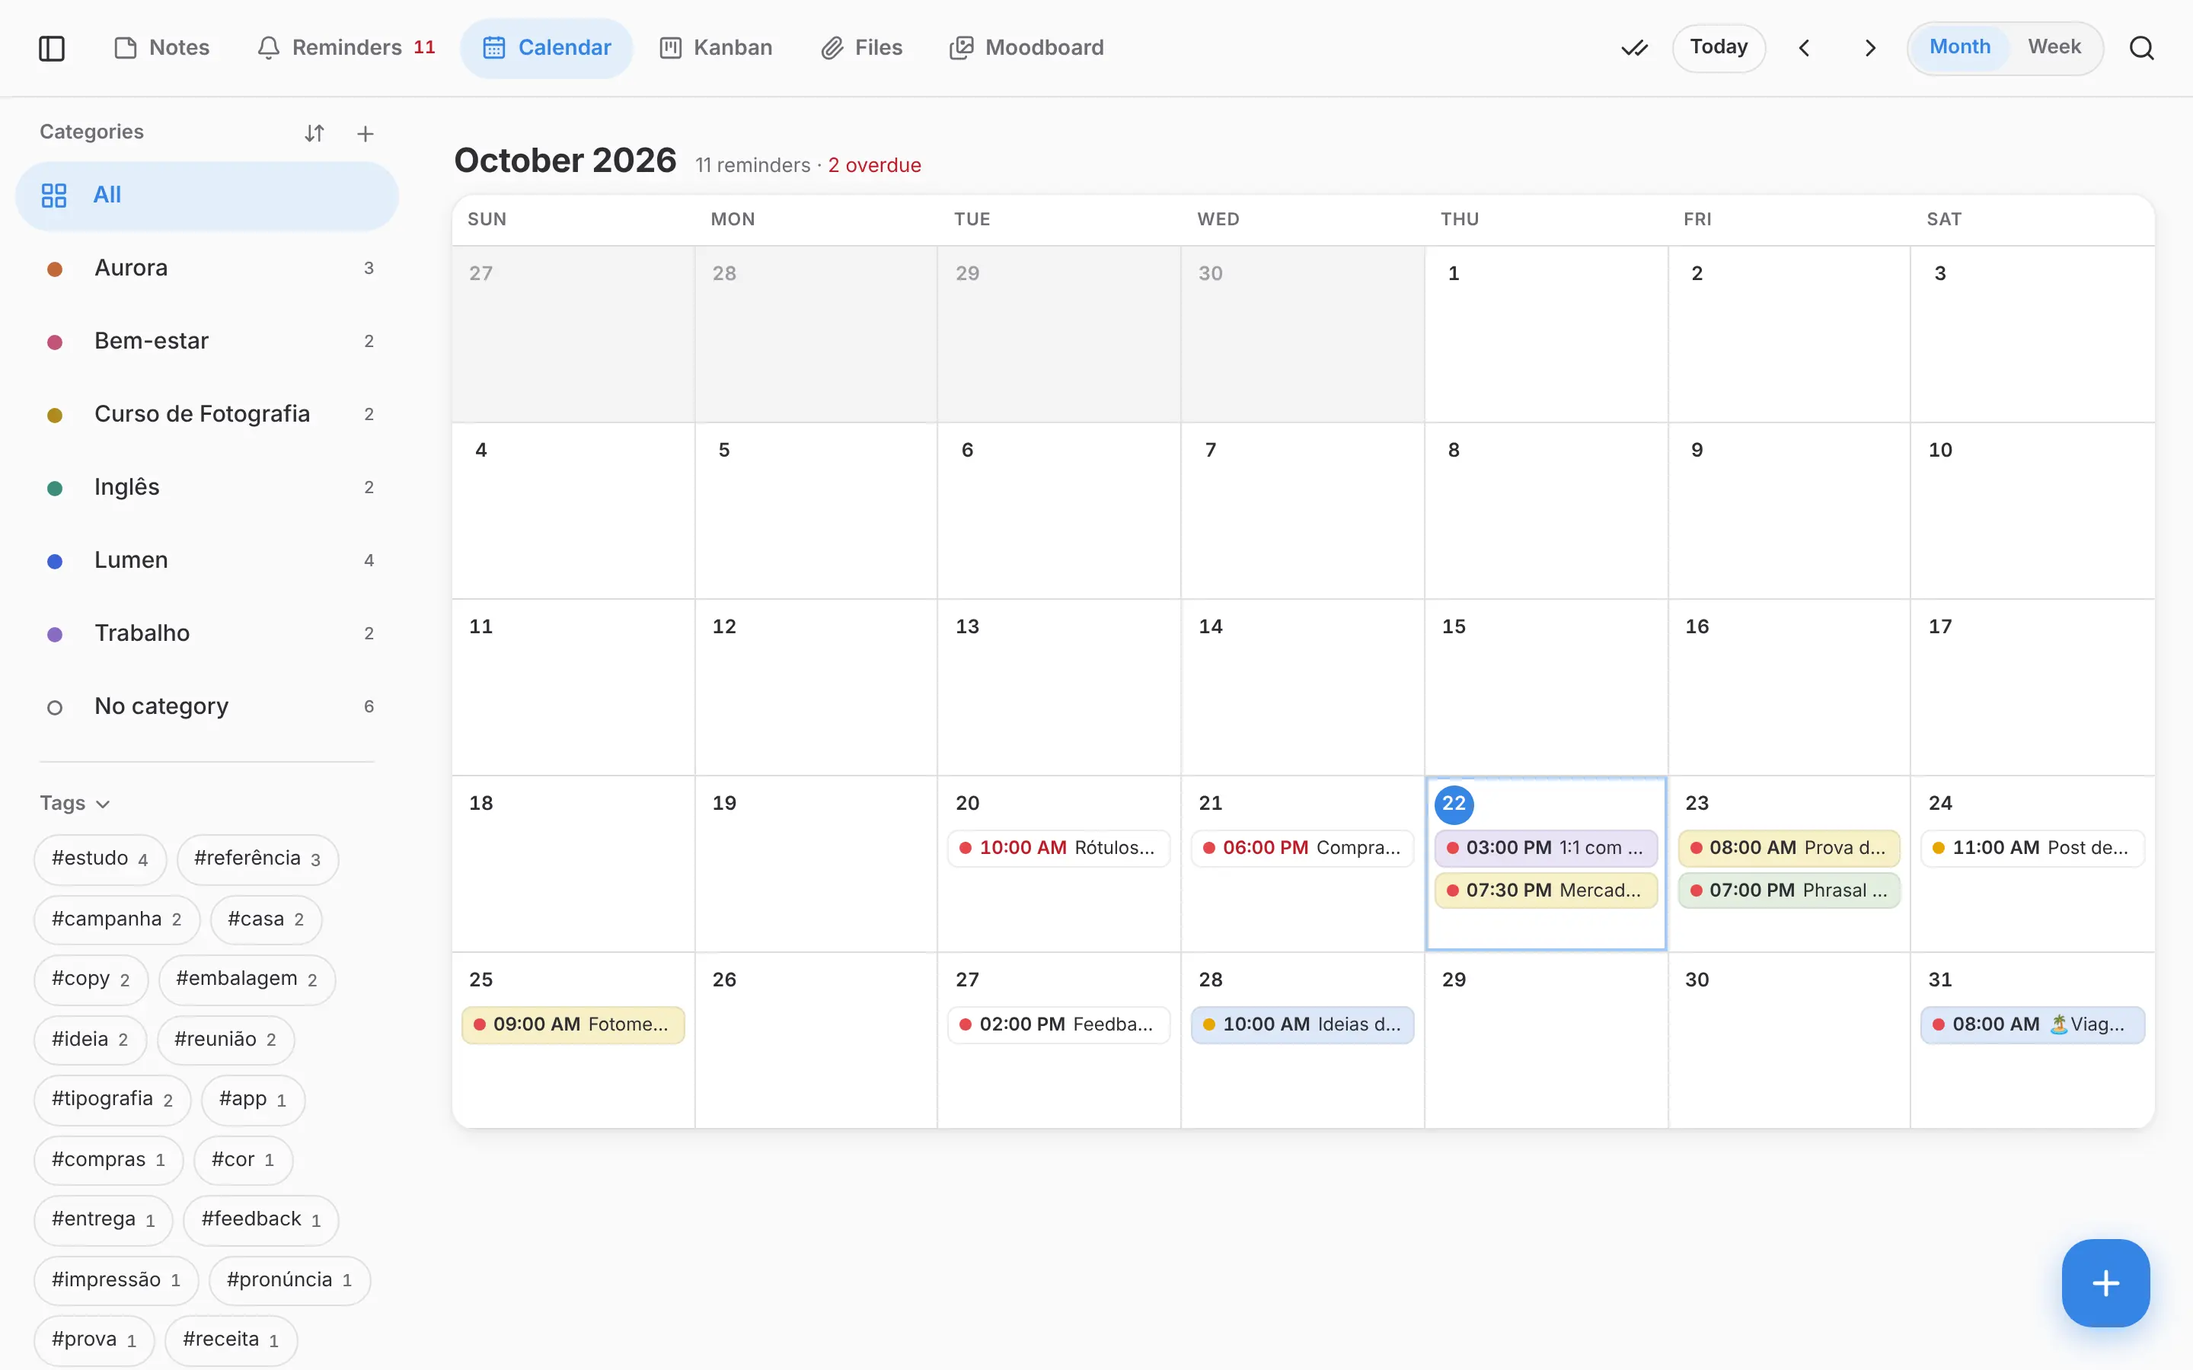
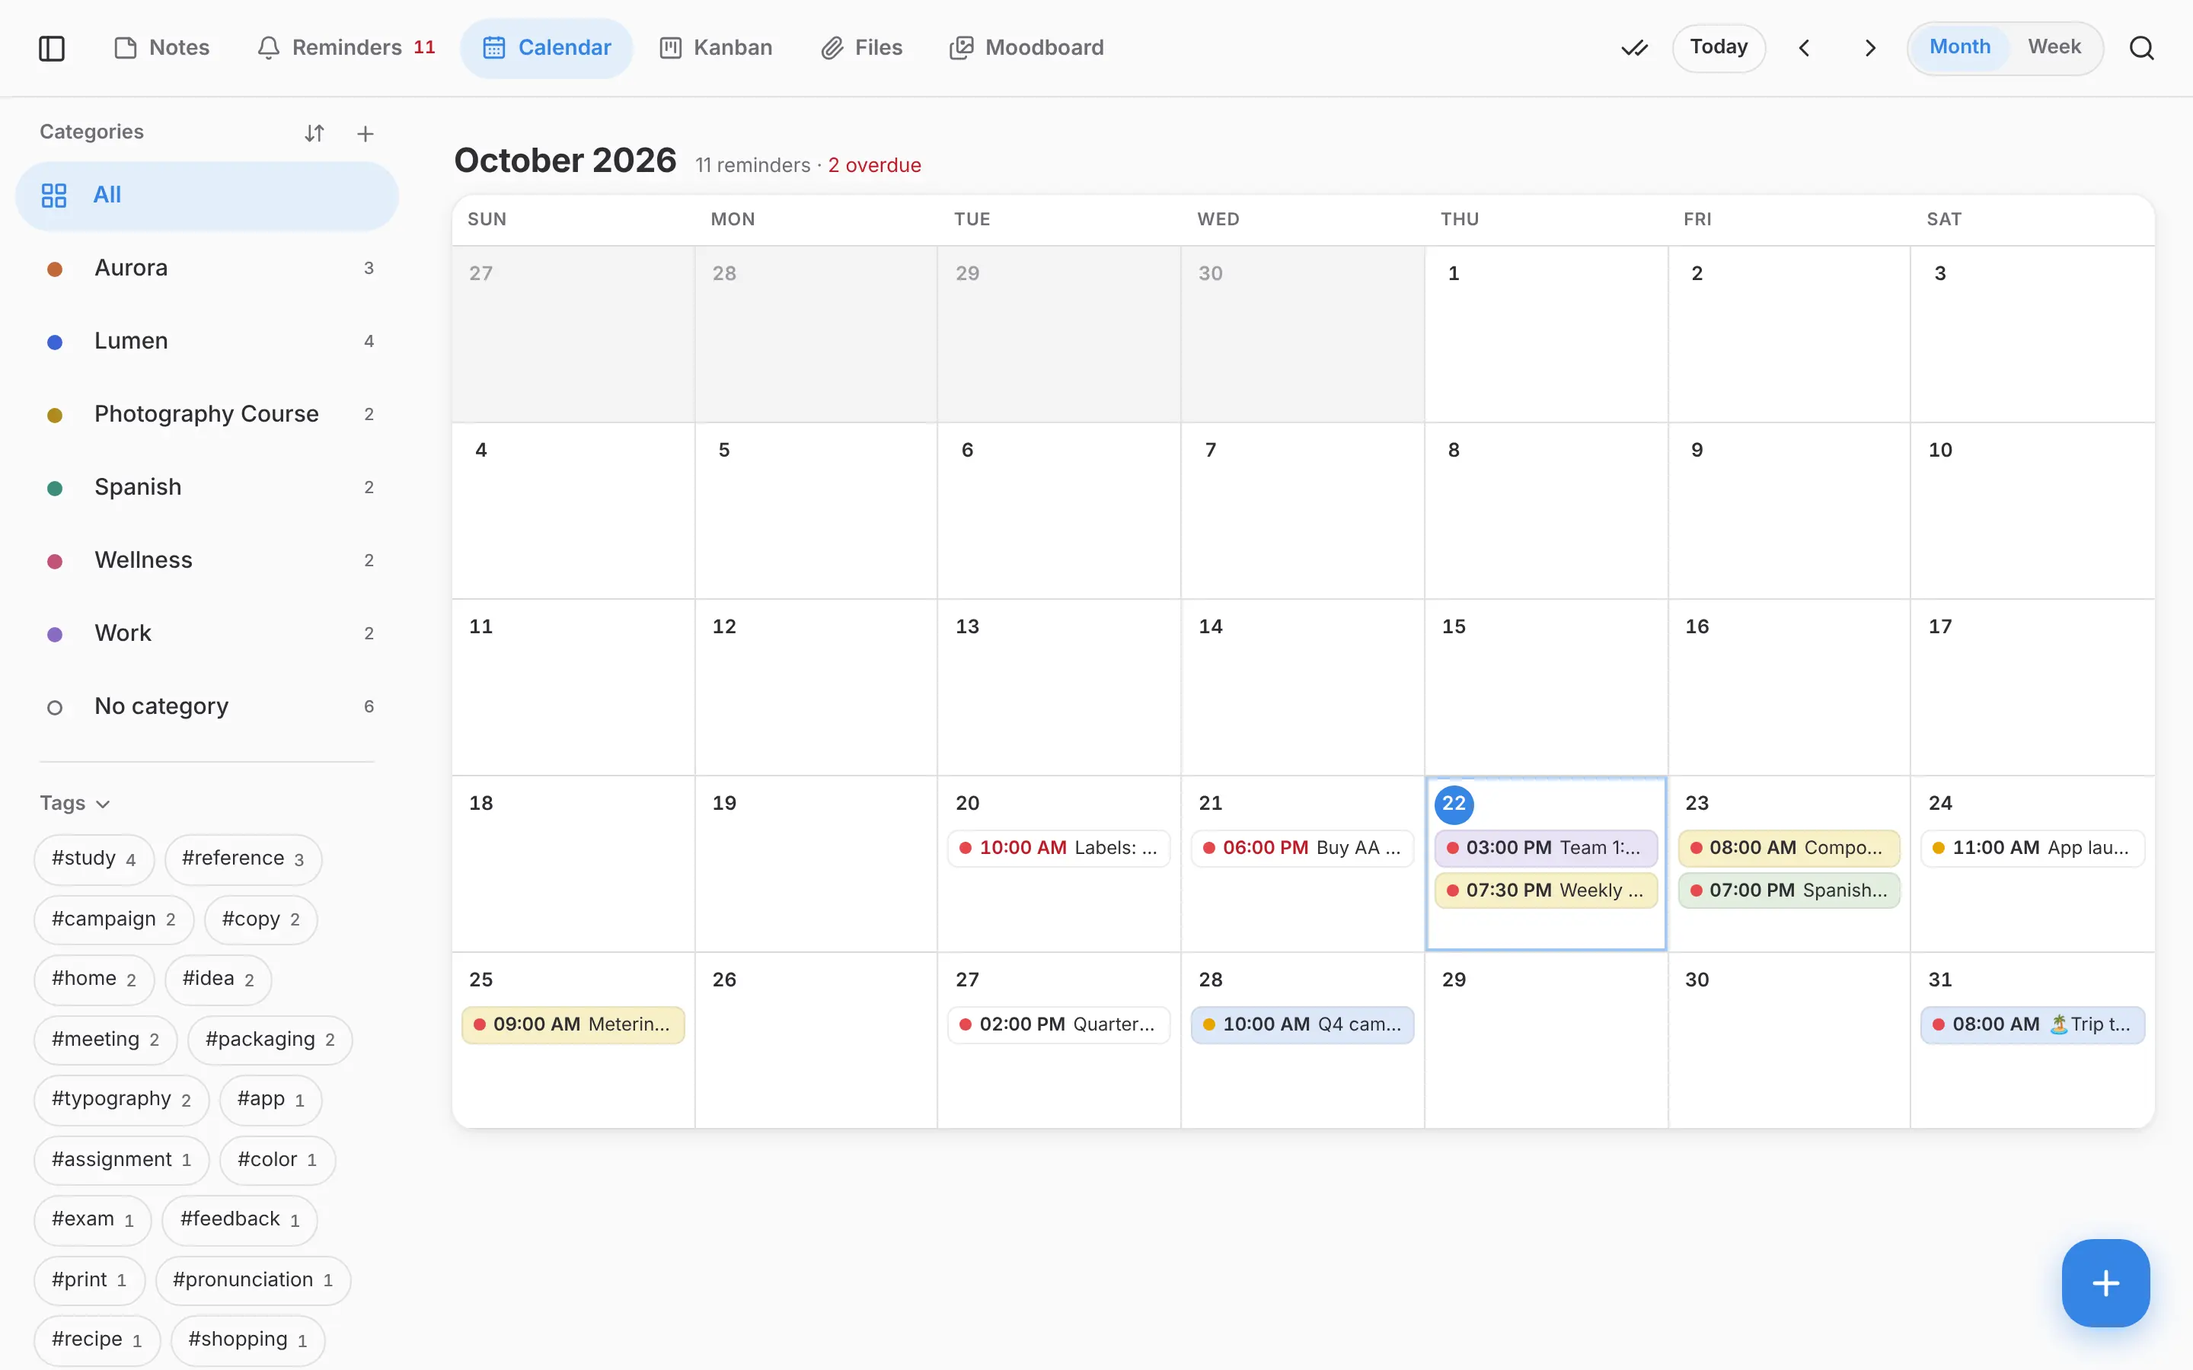
Exemplos do mock em inglês: prints do site em inglês com notas em inglês
O mock escolhe os dados de exemplo pelo idioma ao carregar (como a prévia do
Nodo): em inglês, as mesmas 25 notas, categorias, anexos e conta contados em
inglês (tudo inventado); no resto, os exemplos em português sem mudança. O
site-shots abre os cards pelo título de cada idioma, e os prints em inglês
foram refeitos.

Claude-Session: https://claude.ai/code/session_01AzZnq8hfvPnh2DukMvcEkA

diff --git a/src/lib/api/mock/seed.ts b/src/lib/api/mock/seed.ts
@@ -1,6 +1,7 @@
 // Dados de exemplo da Fase 0, portados do protótipo.
 import type { AttachmentKind, NoteColor, RichDoc, RichNode, Tone } from '../../types'
 import type { FakeImage } from './fake-images'
+import { i18n } from '@wylho/atrio'
 
 const HOUR = 3_600_000
 const DAY = 86_400_000
@@ -50,7 +51,7 @@ export interface SeedNote {
   updatedAt: number
 }
 
-export const SEED_CATEGORIES: SeedCategory[] = [
+const PT_CATEGORIES: SeedCategory[] = [
   { id: 'cat-aurora', name: 'Aurora', color: '#C26A3D' },
   { id: 'cat-ingles', name: 'Inglês', color: '#3E8E7E' },
   { id: 'cat-trabalho', name: 'Trabalho', color: '#8A6BC4' },
@@ -59,7 +60,7 @@ export const SEED_CATEGORIES: SeedCategory[] = [
   { id: 'cat-curso', name: 'Curso de Fotografia', color: '#B08A1E' },
 ]
 
-export const SEED_IMAGES: SeedImage[] = [
+const PT_IMAGES: SeedImage[] = [
   { hash: 'img-campanha', name: 'campanha-q4-grid.webp', kind: 'swatch', w: 600, h: 420, pal: ['#1D2B6B', '#3D63D6', '#A9BCF5', '#F2EDE4', '#E86A3A'], tone: 'frio', origKB: 3480, optKB: 286 },
   { hash: 'img-frasco', name: 'frasco-ref-01.webp', kind: 'bottle', w: 600, h: 800, pal: ['#E9D6C1', '#C26A3D', '#7A3B1F', '#F6EEE5', '#2E1A10'], tone: 'quente', origKB: 4210, optKB: 344 },
   { hash: 'img-serra', name: 'paisagem-serra.webp', kind: 'landscape', w: 600, h: 450, pal: ['#F4C9A0', '#E8875A', '#FBE6C8', '#6E4A6B', '#3B2A44'], tone: 'quente', origKB: 5120, optKB: 402 },
@@ -82,7 +83,7 @@ const PDF = 'application/pdf'
 const DOCX = 'application/vnd.openxmlformats-officedocument.wordprocessingml.document'
 const XLSX = 'application/vnd.openxmlformats-officedocument.spreadsheetml.sheet'
 
-export const SEED_FILES: SeedFile[] = [
+const PT_FILES: SeedFile[] = [
   { hash: 'file-aula07', name: 'Aula 07 - Luz natural.pdf', kind: 'pdf', mime: PDF, kb: 2410, noteId: 'n4', daysAgo: 2 },
   { hash: 'file-manual', name: 'Manual de marca Lumen v3.pdf', kind: 'pdf', mime: PDF, kb: 8120, noteId: 'n1', daysAgo: 6 },
   { hash: 'file-briefing', name: 'Briefing Aurora.docx', kind: 'doc', mime: DOCX, kb: 186, noteId: 'n2', daysAgo: 9 },
@@ -122,7 +123,7 @@ function at(dayOffset: number, h: number, m = 0) {
 }
 const hoursAgo = (h: number) => Date.now() - h * HOUR
 
-export function seedNotes(): SeedNote[] {
+function seedNotesPt(): SeedNote[] {
   return [
     {
       id: 'n1', title: 'Ideias de campanha Q4', categoryId: 'cat-lumen', tags: ['campanha', 'ideia'], color: 'sky', pinned: true,
@@ -274,4 +275,215 @@ export function seedNotes(): SeedNote[] {
   ]
 }
 
+// ---------- em inglês ----------
+// Os mesmos exemplos, contados para quem lê em inglês (os prints do site em inglês saem daqui). Mesmos ids, fotos,
+// datas e recursos; só o texto muda. Também inventados.
+
+const EN_CATEGORY_NAMES: Record<string, string> = {
+  'cat-aurora': 'Aurora',
+  'cat-ingles': 'Spanish',
+  'cat-trabalho': 'Work',
+  'cat-bemestar': 'Wellness',
+  'cat-lumen': 'Lumen',
+  'cat-curso': 'Photography Course',
+}
+
+const EN_IMAGE_NAMES: Record<string, string> = {
+  'img-campanha': 'campaign-q4-grid.webp',
+  'img-frasco': 'bottle-ref-01.webp',
+  'img-serra': 'hills-at-dusk.webp',
+  'img-grotesca': 'grotesque-specimen.webp',
+  'img-arcos': 'facade-arches.webp',
+  'img-outono': 'autumn-palette.webp',
+  'img-lavanda': 'lavender-tones.webp',
+  'img-rosa': 'pink-blocks.webp',
+  'img-mata': 'forest-trail.webp',
+  'img-serif': 'editorial-serif.webp',
+  'img-mockup': 'app-launch-mockup.webp',
+  'img-rotulo': 'label-proof-03.webp',
+  'img-amostras': 'paper-samples.webp',
+  'img-praia': 'harbor-pier.webp',
+  'img-folhagem': 'coastal-woods.webp',
+  'img-pao': 'sourdough-proof.webp',
+}
+
+const EN_FILE_NAMES: Record<string, string> = {
+  'file-aula07': 'Lesson 07 - Natural light.pdf',
+  'file-manual': 'Lumen brand guidelines v3.pdf',
+  'file-briefing': 'Aurora brief.docx',
+  'file-aula14': 'Conversation class 14.m4a',
+  'file-exposicao': 'Exposure chart.xlsx',
+  'file-pauta': '1-1 agenda October.docx',
+  'file-reuniao': 'Planning meeting recording.mp4',
+  'file-shadowing': 'Shadowing ep. 42.mp3',
+  'file-avaliacao': 'Q1 review - summary.pdf',
+  'file-lista3': 'Exercise sheet 3.pdf',
+  'file-gastos': 'Course materials.xlsx',
+  'file-roteiro': 'Harbor Bay itinerary.pdf',
+}
+
+function seedNotesEn(): SeedNote[] {
+  return [
+    {
+      id: 'n1', title: 'Q4 campaign ideas', categoryId: 'cat-lumen', tags: ['campaign', 'idea'], color: 'sky', pinned: true,
+      reminderAt: at(6, 10), reminderDoing: true, updatedAt: hoursAgo(3),
+      body: doc(
+        p('Common thread: ', bold('the coffee that wakes up the neighborhood'), '. Test three angles before the meeting.'),
+        img('img-campanha'),
+        ul('Post series with the baristas', 'Landing page with the menu', 'Back-to-school coupon'),
+        p('Check the tone of voice in the guidelines before locking the copy. #copy'),
+      ),
+    },
+    {
+      id: 'n2', title: 'Packaging: visual direction', categoryId: 'cat-aurora', tags: ['packaging', 'reference'], color: 'sand', pinned: true,
+      reminderAt: null, updatedAt: hoursAgo(20),
+      body: doc(p('Amber glass, a small label and lots of breathing room. No gold.'), img('img-frasco'), p('The hills at dusk are the bottle palette:'), img('img-serra')),
+    },
+    {
+      id: 'n3', title: 'Spanish verbs to review', categoryId: 'cat-ingles', tags: ['study'], color: 'sage', pinned: false,
+      reminderAt: at(1, 19), updatedAt: hoursAgo(26),
+      body: doc(check([['ser vs. estar', true], ['por vs. para', true], ['preterite vs. imperfect', false], ['present subjunctive', false], ['reflexive verbs', false]])),
+    },
+    {
+      id: 'n4', title: 'Metering: manual mode', categoryId: 'cat-curso', tags: ['study', 'assignment'], color: 'butter', pinned: false,
+      reminderAt: at(3, 9), updatedAt: hoursAgo(50),
+      body: doc(
+        h3('Steps'),
+        ul('Meter the light at the right spot', 'Set ISO and shutter speed', 'Check the histogram'),
+        p('Hand in the photo essay by Friday. The chart and the lesson PDF are attached.'),
+      ),
+    },
+    {
+      id: 'n5', title: 'Team 1:1 — agenda', categoryId: 'cat-trabalho', tags: ['meeting'], color: 'lilac', pinned: false,
+      reminderAt: at(0, 15), updatedAt: hoursAgo(5),
+      body: doc(check([['Revisit quarterly goals', false], ['Feedback on the onboarding project', false], ['December time off', true]]), file('file-reuniao')),
+    },
+    {
+      id: 'n6', title: 'Class times and parking', categoryId: 'cat-bemestar', tags: [], color: 'none', pinned: false,
+      reminderAt: null, updatedAt: hoursAgo(120),
+      body: doc(p('Classes from 7 am to 9 pm. Partner parking on the back street, entrance through gate B.')),
+    },
+    {
+      id: 'n7', title: 'Type references', categoryId: 'cat-lumen', tags: ['typography', 'reference'], color: 'none', pinned: false,
+      reminderAt: null, updatedAt: hoursAgo(72),
+      body: doc(img('img-grotesca'), p('A high-contrast grotesque for headlines, serif only for quotes.'), img('img-serif')),
+    },
+    {
+      id: 'n8', title: '', categoryId: null, tags: [], color: 'none', pinned: false,
+      reminderAt: at(-1, 18), updatedAt: hoursAgo(30),
+      body: doc(p('Buy AA batteries and a bulb for the porch')),
+    },
+    {
+      id: 'n9', title: 'Ideario: notes app', categoryId: null, tags: ['idea', 'app'], color: 'rose', pinned: false,
+      reminderAt: null, updatedAt: hoursAgo(1),
+      body: doc(
+        p('Quick notepad + idea hub. Local-first, syncs through Google Drive.'),
+        ul('Open straight into a new note', 'Optimized photos', 'Moodboard with palettes'),
+        img('img-rosa'),
+      ),
+    },
+    {
+      id: 'n10', title: 'Autumn palette', categoryId: 'cat-aurora', tags: ['color', 'reference'], color: 'none', pinned: false,
+      reminderAt: null, updatedAt: hoursAgo(96),
+      body: doc(row('img-outono', 'img-arcos'), p('Try terracotta with moss green.')),
+    },
+    {
+      id: 'n11', title: 'Lavender moodboard', categoryId: 'cat-lumen', tags: ['color'], color: 'none', pinned: false,
+      reminderAt: null, updatedAt: hoursAgo(200), archived: true,
+      body: doc(img('img-lavanda'), p('Dropped for the campaign, keep for later.')),
+    },
+    {
+      id: 'n12', title: 'Forest hike', categoryId: null, tags: ['travel'], color: 'sage', pinned: false,
+      reminderAt: null, updatedAt: hoursAgo(300), trashedDaysAgo: 4,
+      body: doc(img('img-mata'), p('Photos from the trail.')),
+    },
+    {
+      id: 'n13', title: 'Weekly groceries', categoryId: null, tags: ['home', 'shopping'], color: 'butter', pinned: true,
+      reminderAt: at(0, 19, 30), updatedAt: hoursAgo(2),
+      body: doc(
+        p('What we are out of:'),
+        check([['Rice', true], ['Coffee beans', false], ['Milk', false], ['Laundry detergent', false], ['Tomatoes and onions', true], ['Paper towels', false], ['Olive oil', false]]),
+      ),
+    },
+    {
+      id: 'n14', title: 'App launch post', categoryId: 'cat-lumen', tags: ['campaign', 'copy'], color: 'none', pinned: false,
+      reminderAt: at(2, 11), reminderDoing: true, updatedAt: hoursAgo(8),
+      body: doc(p('Open with the pain point: ', bold('the first cup of the day'), '. Show the ordering app in 3 screens and close with the waitlist invite.'), img('img-mockup')),
+    },
+    {
+      id: 'n15', title: 'Shadowing: episode 42', categoryId: 'cat-ingles', tags: ['study', 'pronunciation'], color: 'sage', pinned: false,
+      reminderAt: at(-1, 7, 30), reminderDone: true, updatedAt: hoursAgo(28),
+      body: doc(check([['Listen once without subtitles', true], ['Repeat out loud, line by line', true], ['Record and compare', false]]), file('file-shadowing'), p('Watch the rolled "r" and the rhythm of long sentences.')),
+    },
+    {
+      id: 'n16', title: 'Quarterly feedback', categoryId: 'cat-trabalho', tags: ['meeting', 'feedback'], color: 'none', pinned: false,
+      reminderAt: at(5, 14), updatedAt: hoursAgo(60),
+      body: doc(
+        p('Summary of the September one-on-ones. Bring to the all-hands only what concerns the whole team; the rest stays in the 1:1s.'),
+        h3('Team strengths'), ul('On-time delivery', 'Good documentation', 'Cross-team support'),
+        h3('To improve'), ul('Estimates', 'Meetings that run too long', 'Handoffs between shifts'),
+        h3('Agreements'), check([['Agenda sent 1 day ahead', true], ['30-minute meetings, tops', false], ['Notes in the team channel', false]]),
+        h3('Next steps'), p('Review Q4 goals with each person and schedule the retro for late November.'),
+      ),
+    },
+    {
+      id: 'n17', title: 'Workout routine', emoji: '🏃', categoryId: 'cat-bemestar', tags: ['workout'], color: 'rose', pinned: false,
+      reminderAt: null, updatedAt: hoursAgo(90),
+      body: doc(check([['Stretching', true], ['Easy 5K run', false], ['Strength training', false], ['Book a fitness assessment', false]])),
+    },
+    {
+      id: 'n18', title: 'Labels: color proofs', categoryId: 'cat-aurora', tags: ['packaging', 'print'], color: 'none', pinned: false,
+      reminderAt: at(-2, 10), updatedAt: hoursAgo(54),
+      body: doc(img('img-rotulo'), p('Proof 03 came out too warm. Ask for 5% less magenta and test on kraft paper.'), img('img-amostras')),
+    },
+    {
+      id: 'n19', title: 'Composition exam', categoryId: 'cat-curso', tags: ['study', 'exam'], color: 'butter', pinned: false,
+      reminderAt: at(1, 8), updatedAt: hoursAgo(14),
+      body: doc(check([['Rule of thirds', true], ['Leading lines', false], ['Framing', false], ['Redo exercise sheet 3', false], ['Review natural light', false]])),
+    },
+    {
+      id: 'n20', title: '', categoryId: null, tags: [], color: 'none', pinned: false,
+      reminderAt: at(-3, 9), reminderDone: true, updatedAt: hoursAgo(75),
+      body: doc(p('Renew the car insurance and send the inspection photos.')),
+    },
+    {
+      id: 'n21', title: 'Trip to Harbor Bay', emoji: '🏝', categoryId: null, tags: ['travel'], color: 'sky', pinned: false,
+      reminderAt: at(9, 8), updatedAt: hoursAgo(40),
+      body: doc(row('img-praia', 'img-folhagem', 'img-mata'), check([['Book the inn', true], ['Sunscreen', false], ['Bug spray', false], ['Camera and batteries', false]])),
+    },
+    {
+      id: 'n22', title: 'Fonts to try', categoryId: 'cat-lumen', tags: ['typography'], color: 'none', pinned: false,
+      reminderAt: null, updatedAt: hoursAgo(130),
+      body: doc(ul('A grotesque with a true italic', 'Mono for on-screen numbers', 'Serif only for quotes'), p('Compare legibility at 12px on the phone.')),
+    },
+    {
+      id: 'n23', title: 'Sourdough bread', emoji: '🍞', categoryId: null, tags: ['recipe', 'home'], color: 'sand', pinned: false,
+      reminderAt: null, updatedAt: hoursAgo(160),
+      body: doc(img('img-pao'), h3('Ingredients'), ul('500 g flour', '350 ml water', '100 g levain', '10 g salt'), p('Stretch and fold every 30 min for the first 2 hours.')),
+    },
+    {
+      id: 'n24', title: 'September expenses', categoryId: 'cat-curso', tags: ['finances'], color: 'none', pinned: false,
+      reminderAt: null, updatedAt: hoursAgo(290), archived: true,
+      body: doc(p('Closed. Came in 8% under budget; the spreadsheet is attached.')),
+    },
+    {
+      id: 'n25', title: 'Old post draft', categoryId: 'cat-lumen', tags: [], color: 'none', pinned: false,
+      reminderAt: null, updatedAt: hoursAgo(400), trashedDaysAgo: 11,
+      body: doc(p('Discarded version of the coupon copy.')),
+    },
+  ]
+}
+
+// ---------- o que o mock usa ----------
+// Escolhido uma vez, ao carregar: inglês quando a interface está em inglês, português no resto (os testes e2e rodam
+// em português e contam com esses textos).
+const EN = i18n.locale === 'en'
+
+export const SEED_CATEGORIES: SeedCategory[] = EN ? PT_CATEGORIES.map((c) => ({ ...c, name: EN_CATEGORY_NAMES[c.id] ?? c.name })) : PT_CATEGORIES
+export const SEED_IMAGES: SeedImage[] = EN ? PT_IMAGES.map((i) => ({ ...i, name: EN_IMAGE_NAMES[i.hash] ?? i.name })) : PT_IMAGES
+export const SEED_FILES: SeedFile[] = EN ? PT_FILES.map((f) => ({ ...f, name: EN_FILE_NAMES[f.hash] ?? f.name })) : PT_FILES
+export const seedNotes = (): SeedNote[] => (EN ? seedNotesEn() : seedNotesPt())
+
 export { DAY }
+/** Conta do Google Drive de exemplo. */
+export const SEED_ACCOUNT = EN ? 'you@gmail.com' : 'voce@gmail.com'

diff --git a/src/lib/api/mock/index.ts b/src/lib/api/mock/index.ts
@@ -14,7 +14,7 @@ import { NO_CATEGORY, NO_TAGS } from '../../types'
 import { noteToState, stateToNote } from './ydoc'
 import { mockMarkdown } from './markdown'
 import { fakeImageSrc } from './fake-images'
-import { DAY, SEED_CATEGORIES, SEED_FILES, SEED_IMAGES, seedNotes } from './seed'
+import { DAY, SEED_ACCOUNT, SEED_CATEGORIES, SEED_FILES, SEED_IMAGES, seedNotes } from './seed'
 
 /** `tags` guarda só as tags manuais; as `#tags` do corpo são derivadas na projeção. */
 interface StoredNote extends NoteInput {
@@ -359,7 +359,7 @@ function changed() {
 
 // Simula o ciclo do sync (SPEC §6): alguns instantes depois da última edição, sobe e volta a 'ok'.
 // A prévia começa com uma conta de exemplo conectada.
-let syncAccount: string | null = 'voce@gmail.com'
+let syncAccount: string | null = SEED_ACCOUNT
 let lastSyncAt = Date.now() - 2 * 60_000
 let signIn: ((ok: boolean) => void) | null = null
 const syncListeners = new Set<(s: SyncState) => void>()
@@ -775,7 +775,7 @@ export const mockApi: Api = {
     })
     signIn = null
     if (!ok) throw new Error('login cancelado')
-    syncAccount = 'voce@gmail.com'
+    syncAccount = SEED_ACCOUNT
     scheduleSync()
     return mockApi.syncStatus()
   },
